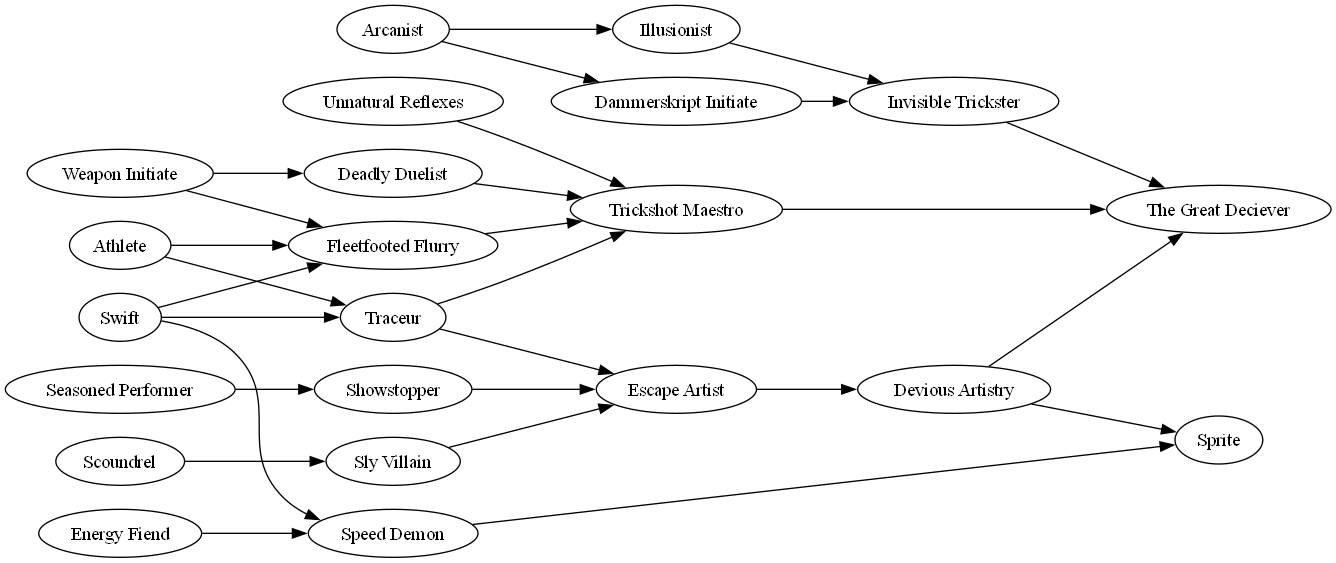
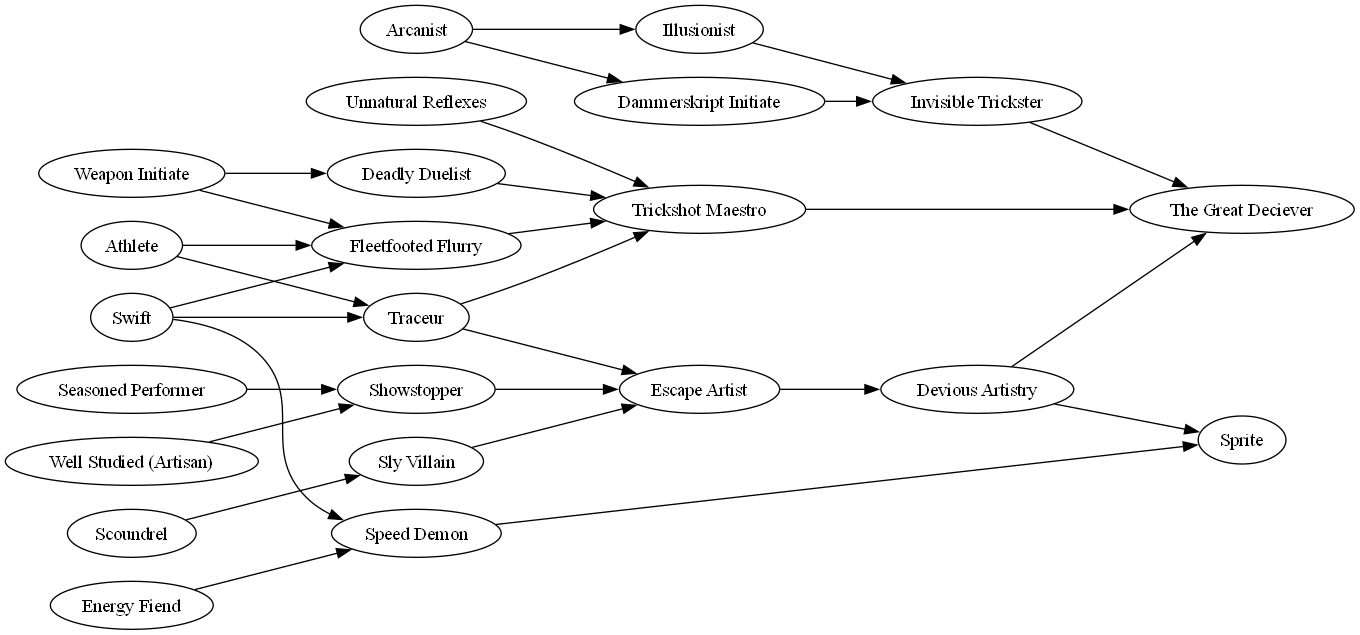
git push guardian changes

diff --git a/guardian_tree.py b/guardian_tree.py
@@ -11,49 +11,55 @@ dot = Digraph(comment='Feat Progression', format='png')
 dot.attr(rankdir='LR')  # Left-to-right layout
 
 # Tier 0 (Base Feats)
-dot.node('Devout Servant', 'Devout Servant')
-dot.node('God\'s Chosen', 'God\'s Chosen')
-dot.node('Masochist', 'Masochist')
-dot.node('Monster Hunter', 'Monster Hunter')
-dot.node('Vanguard', 'Vanguard')
-dot.node('Weapon Initiate', 'Weapon Initiate')
+tier_0_feats = [
+    'Devout Servant', 'God\'s Chosen', 'Masochist', 'Monster Hunter', 'Vanguard', 'Weapon Initiate', 'Arcanist'
+]
+for feat in tier_0_feats:
+    dot.node(feat, feat)
 
 # Tier 1 Feats
-dot.node('Hallowed Keeper', 'Hallowed Keeper')
-dot.node('Inquisitor', 'Inquisitor')
-dot.node('Martyr', 'Martyr')
+tier_1_feats = {
+    'Hallowed Keeper': ['Devout Servant'],
+    'Inquisitor': ['Monster Hunter'],
+    'Martyr': ['Vanguard', 'Masochist'],
+    'Seer of Realms Beyond': ['Arcanist'],
+    'Ward Weaver': ['Devout Servant', 'Arcanist']
+}
+for feat, requirements in tier_1_feats.items():
+    dot.node(feat, feat)
+    for req in requirements:
+        dot.edge(req, feat)
 
 # Tier 2 Feats
-dot.node('Wielder of the Holy Light', 'Wielder of the Holy Light')
-dot.node('Weapons Adept', 'Weapons Adept')
+tier_2_feats = {
+    'Wielder of the Holy Light': ['Hallowed Keeper', 'God\'s Chosen'],
+    'Weapons Adept': ['Weapon Initiate'],
+    'Ancient Protector': ['Ward Weaver', 'God\'s Chosen', 'Hallowed Keeper']
+}
+for feat, requirements in tier_2_feats.items():
+    dot.node(feat, feat)
+    for req in requirements:
+        dot.edge(req, feat)
 
 # Tier 3 Feats
-dot.node('Bane of Monsters', 'Bane of Monsters')
+tier_3_feats = {
+    'Bane of Monsters': ['Weapons Adept', 'Inquisitor', 'Wielder of the Holy Light'],
+    'Realmwalker': ['Ancient Protector', 'Seer of Realms Beyond']
+}
+for feat, requirements in tier_3_feats.items():
+    dot.node(feat, feat)
+    for req in requirements:
+        dot.edge(req, feat)
 
 # Tier 4 Feats
-dot.node('Holy Guardian', 'Holy Guardian')
-
-# Add edges (prerequisites)
-# Tier 0 -> Tier 1
-dot.edge('Devout Servant', 'Hallowed Keeper')
-dot.edge('Monster Hunter', 'Inquisitor')
-dot.edge('Vanguard', 'Martyr')
-dot.edge('Masochist', 'Martyr')
-
-# Tier 1 -> Tier 2
-dot.edge('Hallowed Keeper', 'Wielder of the Holy Light')
-dot.edge('God\'s Chosen', 'Wielder of the Holy Light')
-dot.edge('Weapon Initiate', 'Weapons Adept')
-
-# Tier 2 -> Tier 3
-dot.edge('Weapons Adept', 'Bane of Monsters')
-dot.edge('Inquisitor', 'Bane of Monsters')
-dot.edge('Wielder of the Holy Light', 'Bane of Monsters')
-
-# Tier 3 -> Tier 4
-dot.edge('Bane of Monsters', 'Holy Guardian')
-dot.edge('Martyr', 'Holy Guardian')
-dot.edge('Wielder of the Holy Light', 'Holy Guardian')
+tier_4_feats = {
+    'Holy Guardian': ['Bane of Monsters', 'Martyr', 'Wielder of the Holy Light'],
+    'Pact of the Watcher': ['Wielder of the Holy Light', 'Realmwalker']
+}
+for feat, requirements in tier_4_feats.items():
+    dot.node(feat, feat)
+    for req in requirements:
+        dot.edge(req, feat)
 
 # Save and render the graph into the "exports" folder
 output_path = os.path.join(exports_folder, 'guardian_tree')

diff --git a/primeval_tree.py b/primeval_tree.py
@@ -48,7 +48,7 @@ for feat, requirements in tier_2_feats.items():
 # Tier 3 Feats
 tier_3_feats = {
     'Primordial Acolyte': ['Blood Chieftain', 'Ancient Protector', 'Dammermancer', 'Grafimancer'],
-    'Beastmaster': ['Ancient Protector', 'Shapechanger'],
+    'Master of the Wild Hunt': ['Ancient Protector', 'Shapechanger'],
     'Realmwalker': ['Seer of Realms Beyond', 'Blood Chieftain', 'Ancient Protector']
 }
 for feat, requirements in tier_3_feats.items():
@@ -59,7 +59,7 @@ for feat, requirements in tier_3_feats.items():
 # Tier 4 (Ultimate Feats)
 tier_4_feats = {
     'Pact of the Damned': ['Primordial Acolyte', 'Realmwalker'],
-    'Primordial Power': ['Primordial Acolyte', 'Beastmaster']
+    'Primordial Power': ['Primordial Acolyte', 'Master of the Wild Hunt']
 }
 for feat, requirements in tier_4_feats.items():
     dot.node(feat, feat)

diff --git a/trickster_tree.py b/trickster_tree.py
@@ -13,7 +13,7 @@ dot.attr(rankdir='LR')  # Left-to-right layout
 # Tier 0 (Base Feats)
 tier_0_feats = [
     'Arcanist', 'Unnatural Reflexes', 'Swift', 'Weapon Initiate', 
-    'Seasoned Performer', 'Scoundrel', 'Athlete', 'Energy Fiend'
+    'Seasoned Performer', 'Scoundrel', 'Athlete', 'Energy Fiend', 'Well Studied (Artisan)'
 ]
 for feat in tier_0_feats:
     dot.node(feat, feat)
@@ -26,7 +26,7 @@ tier_1_feats = {
     'Deadly Duelist': ['Weapon Initiate'],
     'Illusionist': ['Arcanist'],
     'Dammerskript Initiate': ['Arcanist'],
-    'Showstopper': ['Seasoned Performer'],
+    'Showstopper': ['Seasoned Performer', 'Well Studied (Artisan)'],
 }
 for feat, requirements in tier_1_feats.items():
     dot.node(feat, feat)
